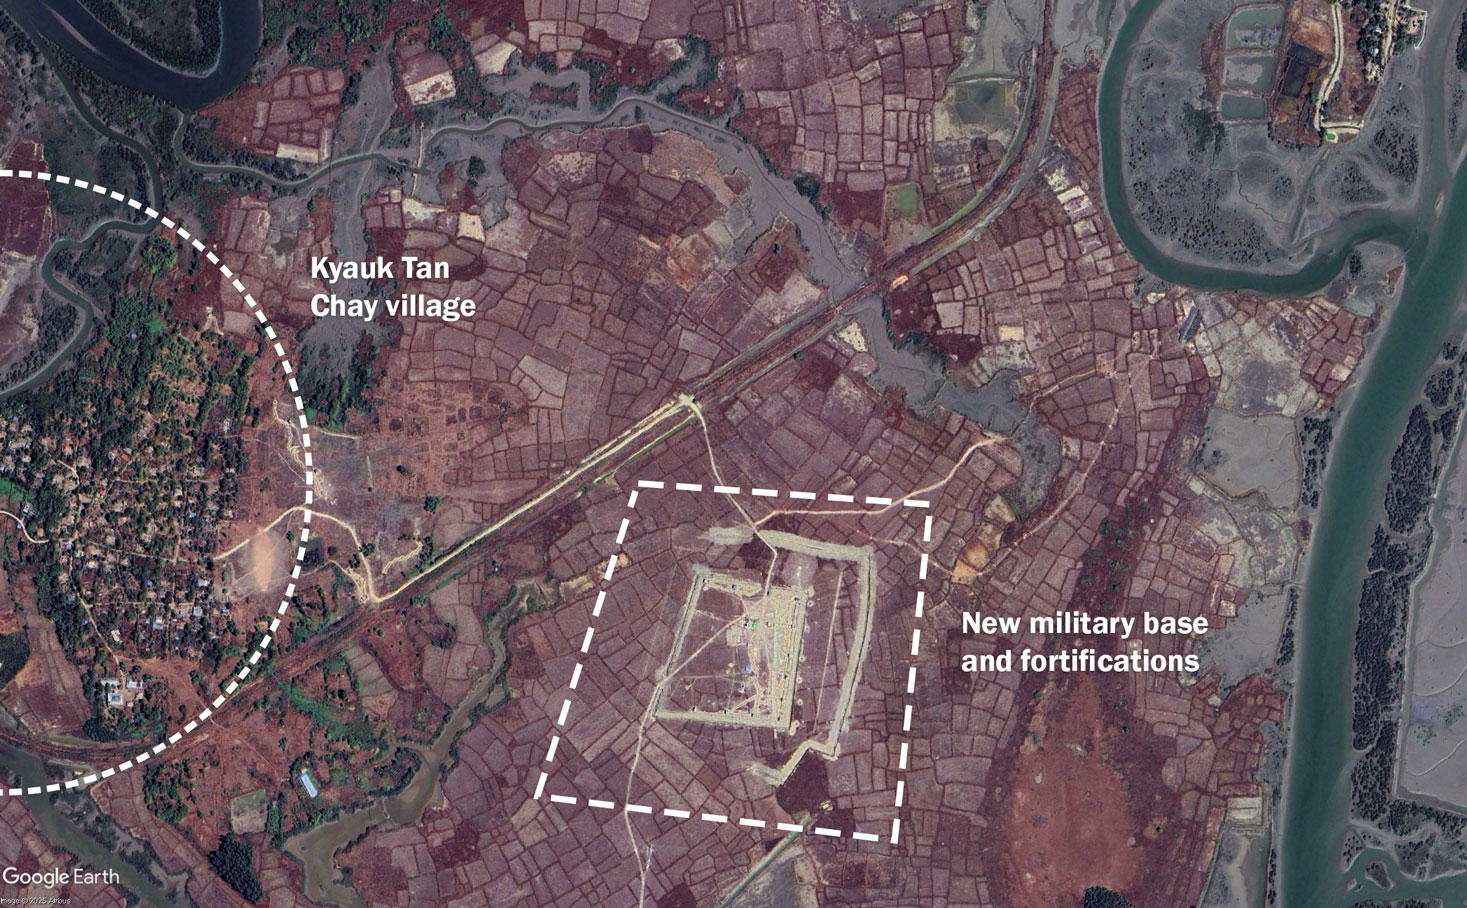
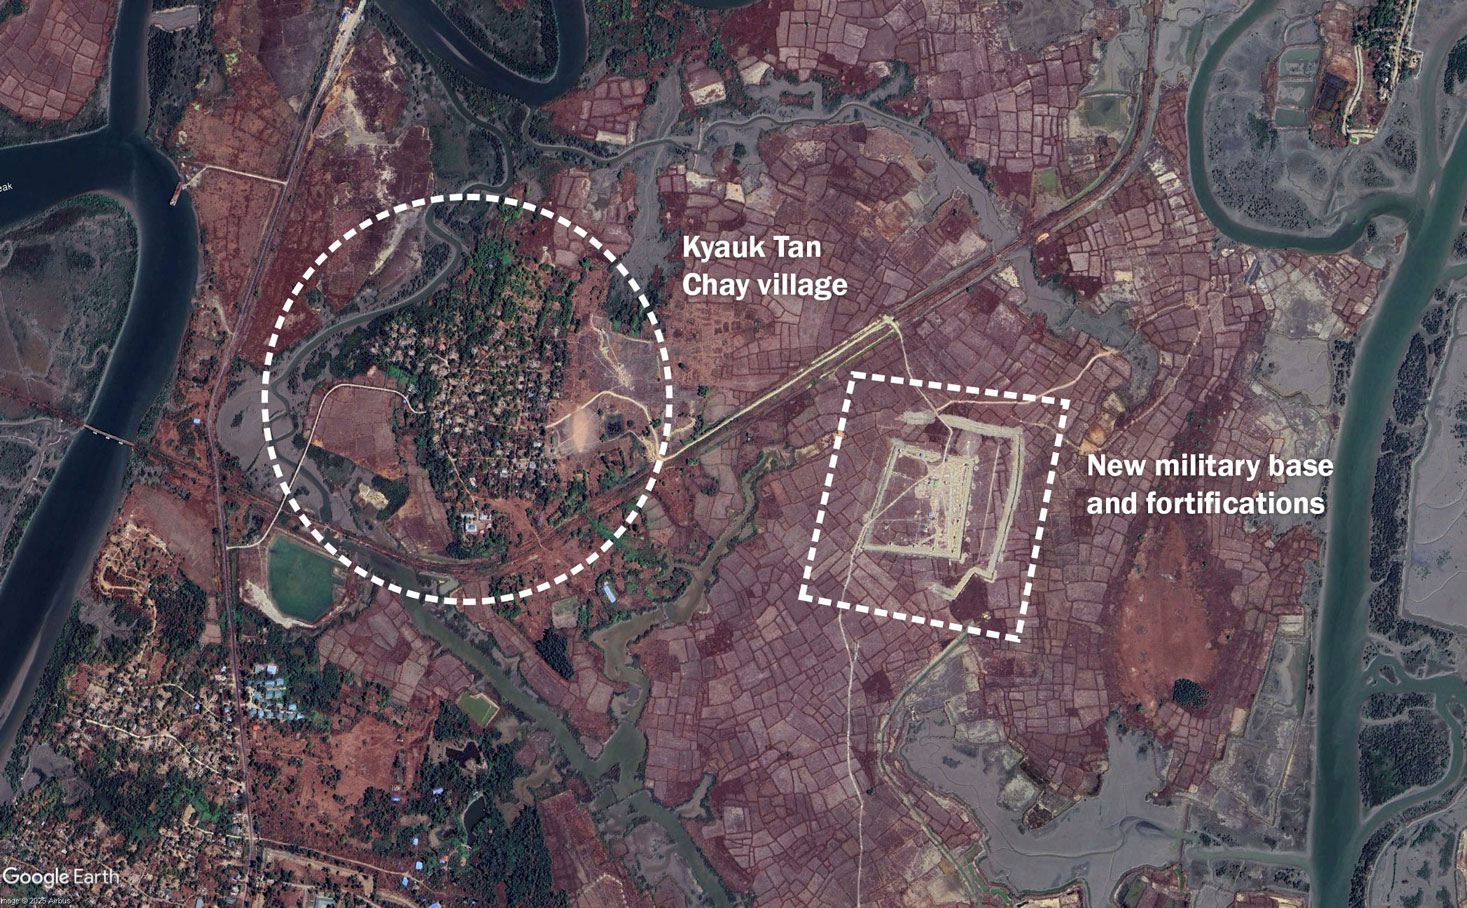
new sat img, new credit

diff --git a/index.html b/index.html
@@ -316,7 +316,7 @@
 
                 <figcaption>
                     Over the past two years, the military has heavily fortified the eastern edge of Sittwe Township to deter the Arakan Army. After forcing Rakhine residents to leave Kyauk Tan Chay village in mid-2024, the military began building a large base to the east of the village that November. In May 2025, it started work on another large outpost further north.
-                    <span class="credit">© Google Earth / Airbus</span>
+                    <span class="credit">© Google Earth / Airbus; Planet Labs PBC</span>
                 </figcaption>
             </figure>
 
@@ -438,7 +438,7 @@
                 <span class="credits__label"><strong>MAPS</strong></span>: Crisis Group
                 research; OpenStreetMap; Natural Earth. <br />
                 <span class="credits__label"><strong>SATELLITE IMAGERY</strong></span>: ©
-                Google Earth / Airbus; VIIRS Nighttime Lights (Earth Observation Group, Colorado School of Mines).
+                Google Earth / Airbus; Planet Labs PBC; VIIRS Nighttime Lights (Earth Observation Group, Colorado School of Mines).
             </p>
 
             <p class="credits__text credits__spaced">
